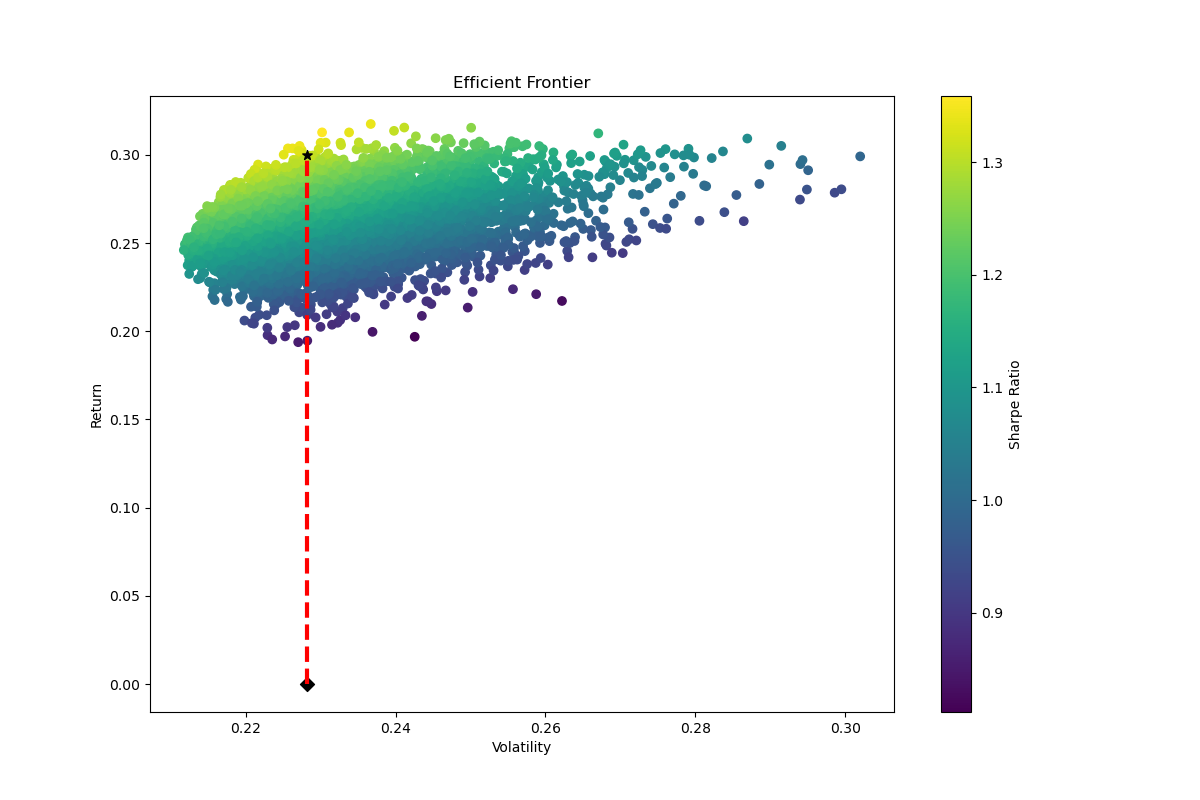
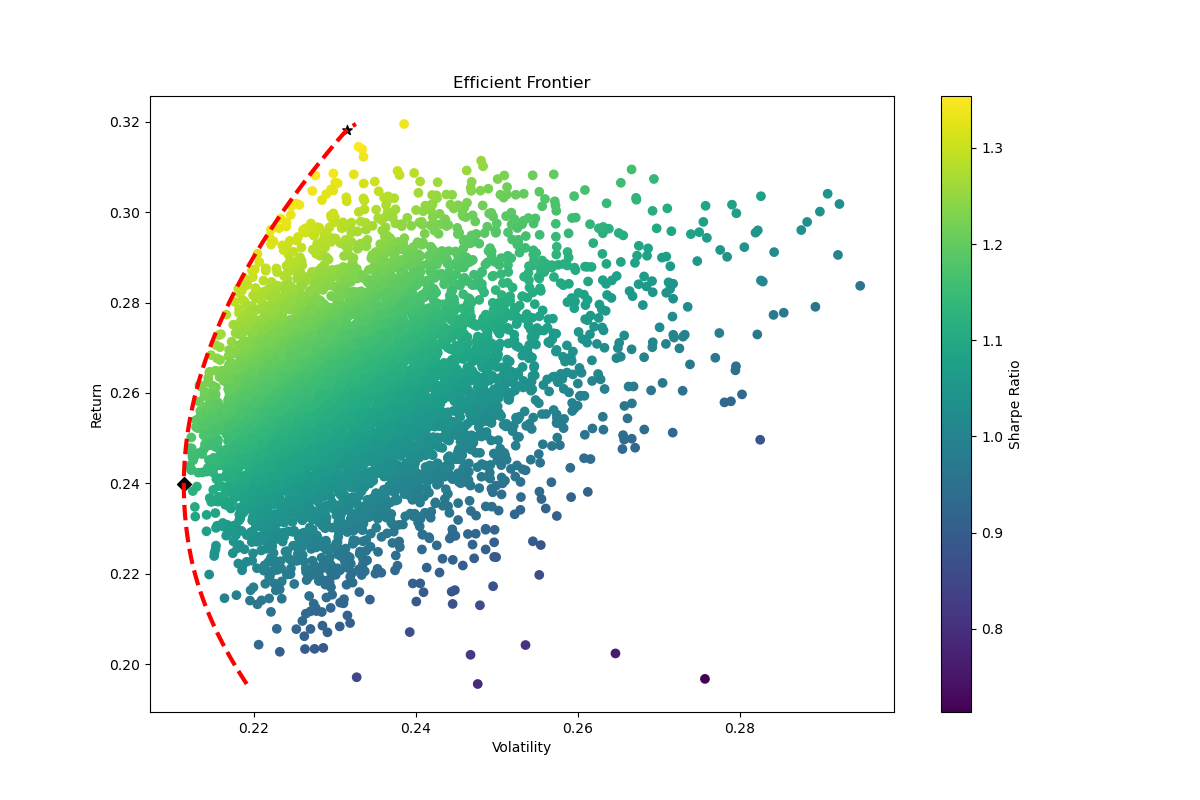
updated

diff --git a/Week 4/ef.py b/Week 4/ef.py
@@ -34,13 +34,13 @@ for x in range(num_ports):
 
     # Sharpe Ratio
     sharpe_arr[x] = ret_arr[x]/vol_arr[x]
-#
-# max_sr_ret = ret_arr[sharpe_arr.argmax()]
-# max_sr_vol = vol_arr[sharpe_arr.argmax()]
-#
-# min_vol_ret = ret_arr[vol_arr.argmin()]
-# min_vol_vol = vol_arr[vol_arr.argmin()]
-#
+
+max_sr_ret = ret_arr[sharpe_arr.argmax()]
+max_sr_vol = vol_arr[sharpe_arr.argmax()]
+
+min_vol_ret = ret_arr[vol_arr.argmin()]
+min_vol_vol = vol_arr[vol_arr.argmin()]
+
 
 # plt.figure(figsize=(12,8))
 # plt.scatter(vol_arr, ret_arr, c=sharpe_arr, cmap='viridis')
@@ -82,8 +82,8 @@ print(opt_results)
 print(opt_results['fun'])
 
 
-returns = np.linspace(0, 0.3, 200) # Returns between 0 and 30%
-# returns = np.linspace(ret_arr.min(), ret_arr.max(), 200)
+# returns = np.linspace(0, 0.3, 200) # Returns between 0 and 30%
+returns = np.linspace(ret_arr.min(), ret_arr.max(), 200)
 vols = []
 weights = []
 
